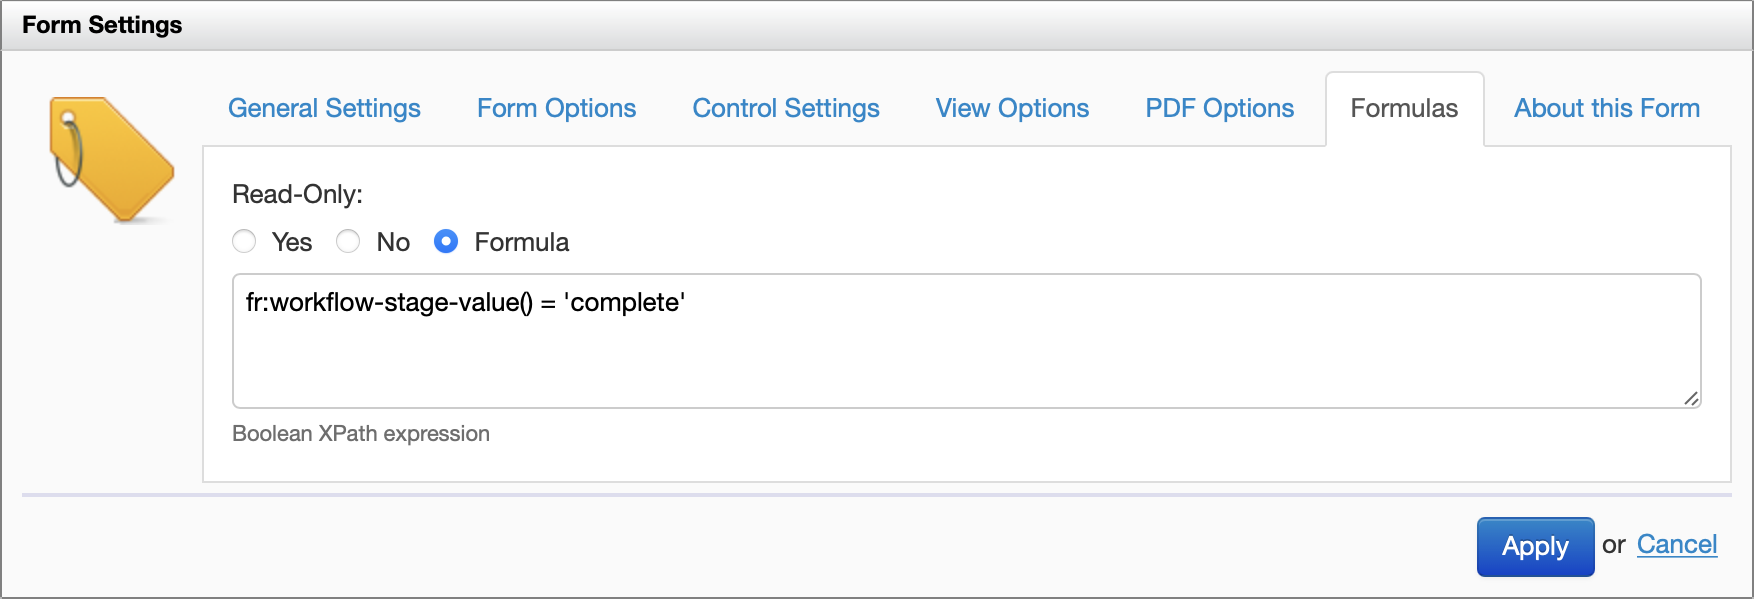
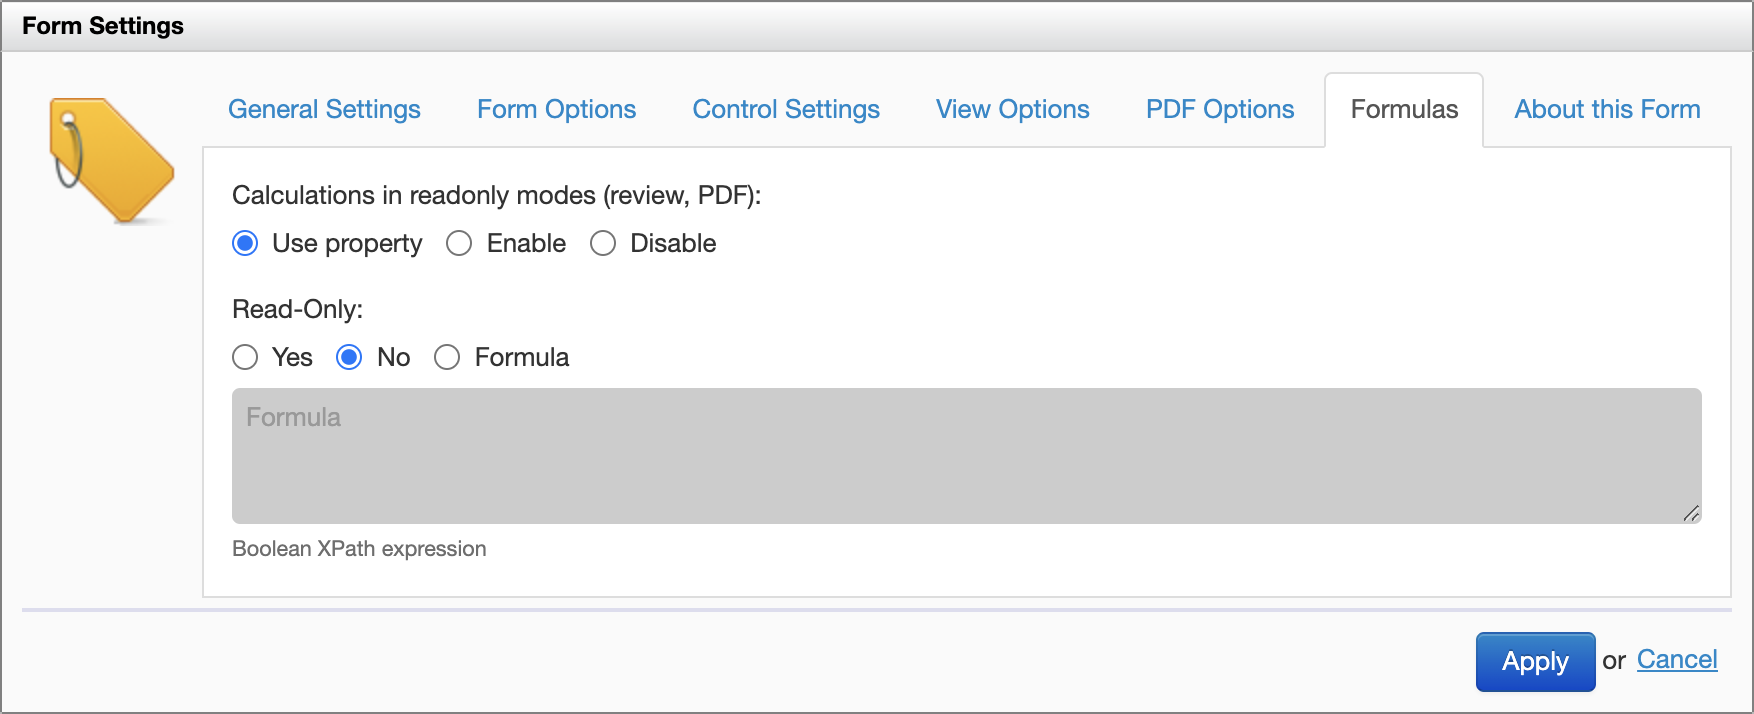
WIP 2021.1 release notes

diff --git a/release-notes/orbeon-forms-2021.1.md b/release-notes/orbeon-forms-2021.1.md
@@ -154,7 +154,7 @@ First, the Grid Settings dialog now shows the number of grid rows in the grid.
 
 Second, for repeated grids only, an option allows you to automatically show a row number at the beginning of each grid repetition.
 
-![Number of grid rows](/form-builder/images/grid-settings-show-repetition-number.png)
+![Show repetition number](/form-builder/images/grid-settings-show-repetition-number.png)
 
 For more details:
 
@@ -168,7 +168,7 @@ Until now, Orbeon Forms would index fields marked as "Show on Summary page" or "
 
 It is now possible to tell Form Runner to index fields independently from whether they show in the Summary page. This allows indexed fields to be searchable via the [Search API](/form-runner/api/persistence/search.md).
 
-![Number of grid rows](/form-builder/images/control-settings.png)
+![Index control](/form-builder/images/control-settings.png)
 
 ### Add double type again as a user choice
 
@@ -180,50 +180,90 @@ However, for scientific calculations, for example using `cos()` and other functi
 
 ### Dropdowns to support hint on items
 
-xxx #5054
+Hints were already supported, among selection controls, on "Radio Buttons" and "Checkboxes" controls. They are now used on the "Static Dropdown" as well. This allows browsers to show hints when the user hovers over an entry. Screen readers also read the hint, represented as a `title` attribute in HTML.
 
-### PDF: Option to show all dropdown control values in automatic PDF #5026
+!["Static Dropdown" hint](/form-runner/images/dropdown-hint.png)
 
-### 
+This also works with the "Dropdown with Search" control.
 
-Option not to run calculation in readonly modes #3672
-Background API: ability to disable calculations #4977
+!["Dropdown with Search" hint](/form-runner/images/dropdown-search-hint.png)
 
+### Option to show all dropdown control values in automatic PDF
+
+When producing a PDF file, single-selection controls like the "Static Dropdown" would just output the selected value. However, in some cases, it is useful for the user to see all the available options. You can now achieve this with a new option in the "Control Settings" dialog for single-selection controls. This option is hierarchical: you can set it at the field level, form level, or globally.
+
+![PDF options](/form-builder/images/control-settings-pdf-options.png)
+
+### More find-grained control over calculations
+
+Sometimes calculations should not run in readonly modes, such as the View page. This can now be configured at the form level.
+
+![Formula options](/form-builder/images/form-settings-formulas.png)
 
 ### XForms 2.0 support
 
-- xforms-dialog-shown/xforms-dialog-hidden #5078
-- Implement xf:parse() #3699
+Underlying Orbeon Forms lies an XForms processor. We have added two features from the XForms 2.0 specification:  
+
+- the `xforms-dialog-shown`/`xforms-dialog-hidden` events
+- the `xf:parse()` function 
 
 ### Accessibility
 
-- Announce new error messages in the error summary #4795
-- Avoid invalid `role="navigation"` on `<ul>` #5079
-- Improve reading of labels for date-time control #4831
+We regularly make enhancements to accessibility. In this version:
+
+- The Error Summary now announces new error messages.
+- We avoid invalid `role="navigation"` on `<ul>` elements.
+- We improved reading of labels for "Date and Time" controls.
 
 ### New XPath functions
 
-- XPath function returning whether a form is embedded #4976
-- Add XPath function to tell whether the form is running in the background #4958
-- Function to access the value of a control within a section template #2471
-- Form Runner function returning whether we are editing a draft #5060
+The following new XPath functions were added:
+
+- [`fr:is-embedded()`](/xforms/xpath/extension-form-runner.md#fr-is-embedded): tells whether the form is embedded
+- [`fr:is-background()`](/xforms/xpath/extension-form-runner.md#fr-is-background): tells whether the form is running in the background
+- [`fr:is-draft()`](/xforms/xpath/extension-form-runner.md#fr-is-draft): tells whether the user is currently editing a draft
+
+In addition, the [`fr:control-string-value()`](/xforms/xpath/extension-form-runner.md#fr-control-string-value) and [`fr:control-typed-value()`](/xforms/xpath/extension-form-runner.md#fr-control-typed-value) support a new argument to take a library name. This allows accessing control values from section templates. 
 
 ### API improvements
 
-- Form metadata API: ability to filter by modified-since date #4987
+The [Form metadata API](form-runner/api/persistence/forms-metadata.md) now has the ability to filter by `modified-since` date.
+
+The [Run form in the background API](/form-runner/api/other/run-form-background.md) supports the following new parameters:
+
+- `disable-default`: disable the evaluation of initial values 
+- `disable-calculate`: disable the evaluation of calculated values
+- `disable-relevant`: disable the evaluation of visibility values
+
+The [Search API](form-runner/api/persistence/search.md) returns new metadata: 
+
+- `created-by`
+- `created-by-groupname`
+- `last-modified-by`
+- `workflow-stage`
 
 ### Flat view to support form versions
 
-xxx #5037
+The [Flat view](/form-runner/persistence/flat-view.md) now supports form definition versions.
 
 ### Home page: ability to delete (unpublish) published form definition
 
-xxx #3597
+The [Home page](form-runner/feature/home-page.md) now supports completely deleting a published form definition. Until now, you could mark a form definition as unavailabe, but not delete it completely.
+
+*NOTE: For [auditing](/form-runner/persistence/auditing.md) purposes, deleted form definitions are still present in the database unless explicitly removed there.* 
 
 ### Summary page improvements
 
-Summary page: ability to show the created-by/last-modified-by users #4986
-Summary/Home to show timestamps in a configurable timezone #1101\
+The [Summary page](/configuration/properties/form-runner-summary-page.md) can be configured to show the "created by" and "last modified by" users with the following properties: 
+
+- `oxf.fr.summary.show-created-by`
+- `oxf.fr.summary.show-last-modified-by`
+
+TODO:
+
+https://doc.orbeon.com/configuration/properties/form-runner#timezone
+
+Summary/Home to show timestamps in a configurable timezone #1101
 
 ### xxx
 
